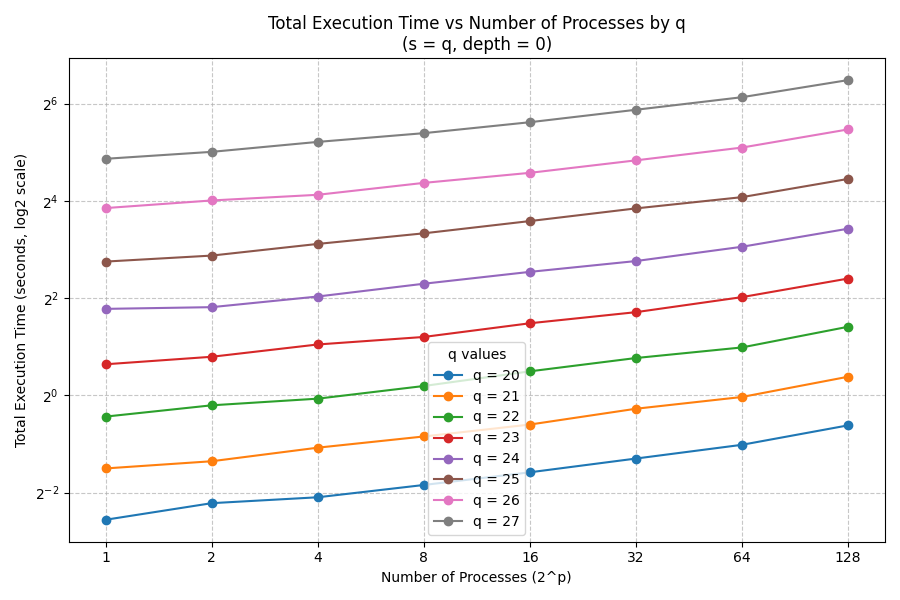
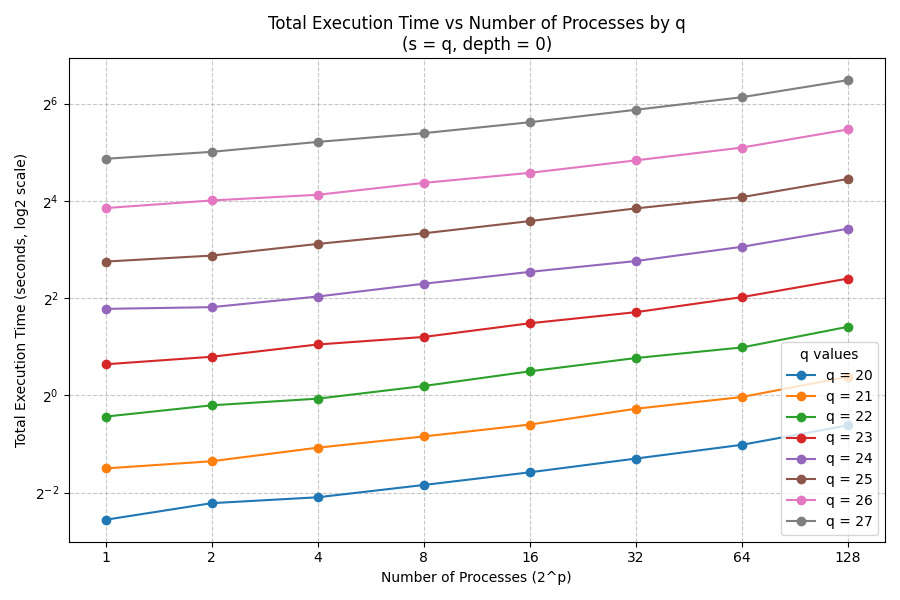
Final version of benchmark results

Changed region(s): [[0.4667, 0.57, 0.5911, 0.9], [0.8711, 0.57, 0.9644, 0.9]]

diff --git a/benchmarks/export_benchmark_results.py b/benchmarks/export_benchmark_results.py
@@ -5,7 +5,7 @@ import os
 import sys
 
 
-def plot_stacked_timing(df, figures_dir, target_sum):
+def plot_stacked_timing(df, figures_dir, target_sum, filename):
     """
     Plot stacked timing breakdown for rows where p + q == target_sum, s == q, and depth == 0.
     """
@@ -43,13 +43,13 @@ def plot_stacked_timing(df, figures_dir, target_sum):
     plt.tight_layout()
 
     os.makedirs(figures_dir, exist_ok=True)
-    save_path = os.path.join(figures_dir, 'stacked_timing.png')
+    save_path = os.path.join(figures_dir, filename)
     plt.savefig(save_path)
     plt.close()
     print(f"Stacked timing plot saved at {save_path}")
 
 
-def export_timing_percentages(df, data_dir, target_sum):
+def export_timing_percentages(df, data_dir, target_sum, filename):
     """
     Export timing percentages for rows where p + q == target_sum, s == q, and depth == 0.
     """
@@ -74,12 +74,12 @@ def export_timing_percentages(df, data_dir, target_sum):
     export_df = df_percent[export_columns]
 
     os.makedirs(data_dir, exist_ok=True)
-    export_path = os.path.join(data_dir, 'timing_percentages.dat')
+    export_path = os.path.join(data_dir, filename)
     export_df.to_csv(export_path, index=False, float_format='%.2f')
     print(f"Filtered timing percentages exported at {export_path}")
 
 
-def plot_pairwise_comm_vs_procs(df, figures_dir, target_sum):
+def plot_pairwise_comm_vs_procs(df, figures_dir, target_sum, filename):
     """
     Plot pairwise communication time vs number of processes (2^p) for different communication buffer splits (2^(q-s)).
     Only for rows where p + q == target_sum and depth == 0.
@@ -117,13 +117,13 @@ def plot_pairwise_comm_vs_procs(df, figures_dir, target_sum):
     plt.tight_layout()
 
     os.makedirs(figures_dir, exist_ok=True)
-    save_path = os.path.join(figures_dir, 'pairwise_comm_vs_procs_splits_sum.png')
+    save_path = os.path.join(figures_dir, filename)
     plt.savefig(save_path)
     plt.close()
     print(f"Pairwise communication time plot saved at {save_path}")
 
 
-def plot_total_time_vs_procs_by_depth(df, figures_dir, target_sum):
+def plot_total_time_vs_procs_by_depth(df, figures_dir, target_sum, filename):
     """
     Plot total execution time vs number of processes (2^p) for different depth values,
     filtered by p + q == target_sum and s == q.
@@ -150,19 +150,19 @@ def plot_total_time_vs_procs_by_depth(df, figures_dir, target_sum):
     ax.set_xticklabels(x_labels)
     ax.set_xlabel('Number of Processes (2^p)')
     ax.set_ylabel('Total Execution Time (seconds)')
-    ax.set_title(f'Total Time vs Number of Processes\n(p + q = {target_sum}, s = q)')
+    ax.set_title(f'Total Time vs Number of Processes\n(Array size: 2^(p + q) = 2^{target_sum})')
     plt.legend(title='Depth')
     plt.grid(True, linestyle='--', alpha=0.7)
     plt.tight_layout()
 
     os.makedirs(figures_dir, exist_ok=True)
-    save_path = os.path.join(figures_dir, 'total_time_vs_procs_by_depth.png')
+    save_path = os.path.join(figures_dir, filename)
     plt.savefig(save_path)
     plt.close()
     print(f"Total time vs processes (by depth) plot saved at {save_path}")
 
 
-def export_speedups_vs_depth(df, data_dir, target_sum):
+def export_speedups_vs_depth(df, data_dir, target_sum, filename):
     """
     Export a table with columns:
     p, q, initial_speedup_depth1, total_speedup_depth1, initial_speedup_depth2, total_speedup_depth2
@@ -209,12 +209,12 @@ def export_speedups_vs_depth(df, data_dir, target_sum):
     export_df = pd.DataFrame(rows)
 
     os.makedirs(data_dir, exist_ok=True)
-    export_path = os.path.join(data_dir, 'speedups_vs_depth.dat')
+    export_path = os.path.join(data_dir, filename)
     export_df.to_csv(export_path, index=False, float_format='%.2f')
     print(f"Speedups table (depth 1 & 2) exported at {export_path}")
 
 
-def plot_total_time_vs_procs_by_q(df, figures_dir):
+def plot_total_time_vs_procs_by_q(df, figures_dir, filename):
     """
     Plot total execution time vs number of processes (2^p) for different q values,
     filtered by s == q and depth == 0.
@@ -243,18 +243,18 @@ def plot_total_time_vs_procs_by_q(df, figures_dir):
     ax.set_ylabel('Total Execution Time (seconds, log2 scale)')
     ax.set_yscale('log', base=2)
     plt.title('Total Execution Time vs Number of Processes by q\n(s = q, depth = 0)')
-    plt.legend(title='q values')
+    plt.legend(title='q values', loc='lower right')
     plt.grid(True, linestyle='--', alpha=0.7)
     plt.tight_layout()
 
     os.makedirs(figures_dir, exist_ok=True)
-    save_path = os.path.join(figures_dir, 'total_time_vs_procs_by_q.png')
+    save_path = os.path.join(figures_dir, filename)
     plt.savefig(save_path)
     plt.close()
     print(f"Total time vs processes (by q) plot saved at {save_path}")
 
 
-def export_speedups_by_p(df, data_dir, output_filename='speedups_by_p.dat'):
+def export_speedups_by_p(df, data_dir, filename):
     """
     Export a table of speedups by increasing p for fixed p+q sums.
     Conditions: s == q and depth == 0.
@@ -295,7 +295,7 @@ def export_speedups_by_p(df, data_dir, output_filename='speedups_by_p.dat'):
 
     # Save to file
     os.makedirs(data_dir, exist_ok=True)
-    export_path = os.path.join(data_dir, output_filename)
+    export_path = os.path.join(data_dir, filename)
     with open(export_path, 'w') as f:
         f.write('\t'.join(col_headers) + '\n')
         for row in rows:
@@ -393,11 +393,11 @@ if __name__ == "__main__":
     columns = ['p', 'q', 's', 'depth', 't_initial_sort', 't_comm_pairwise', 't_elbow_sort', 't_total']
     df = pd.read_csv(log_file, sep=r'\s+', names=columns, engine='python', skiprows=2)
 
-    export_timing_percentages(df, data_dir, 27)
-    plot_stacked_timing(df, figures_dir, 27)
-    plot_pairwise_comm_vs_procs(df, figures_dir, 27)
-    plot_total_time_vs_procs_by_depth(df, figures_dir, 27)
-    export_speedups_vs_depth(df, data_dir, 27)
-    plot_total_time_vs_procs_by_q(df, figures_dir)
-    export_speedups_by_p(df, data_dir)
-    export_speedups_by_s(df, data_dir, 27)
+    export_timing_percentages(df, data_dir, 27, 'time_breakdown.dat')
+    plot_stacked_timing(df, figures_dir, 27, 'time_breakdown.png')
+    plot_pairwise_comm_vs_procs(df, figures_dir, 27, 'pairwise_comm_vs_procs.png')
+    plot_total_time_vs_procs_by_depth(df, figures_dir, 27, 'total_time_vs_procs_by_depth.png')
+    export_speedups_vs_depth(df, data_dir, 27, 'speedups_vs_depth.dat')
+    plot_total_time_vs_procs_by_q(df, figures_dir, 'total_time_vs_procs_by_q.png')
+    export_speedups_by_p(df, data_dir, 'speedups_by_p.dat')
+    export_speedups_by_s(df, data_dir, 27, 'speedups_by_s.dat')
